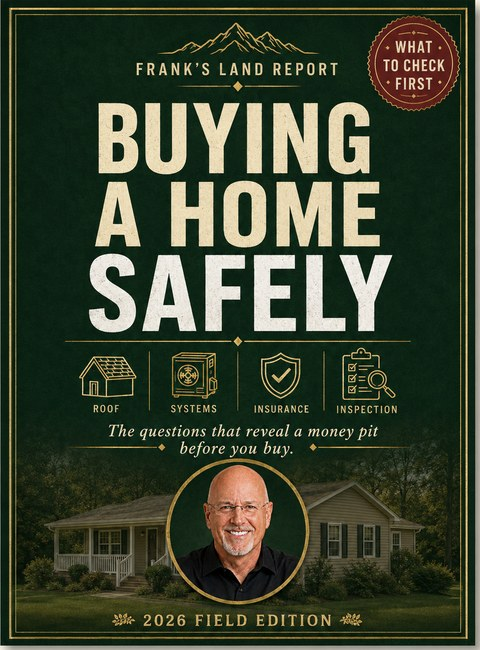
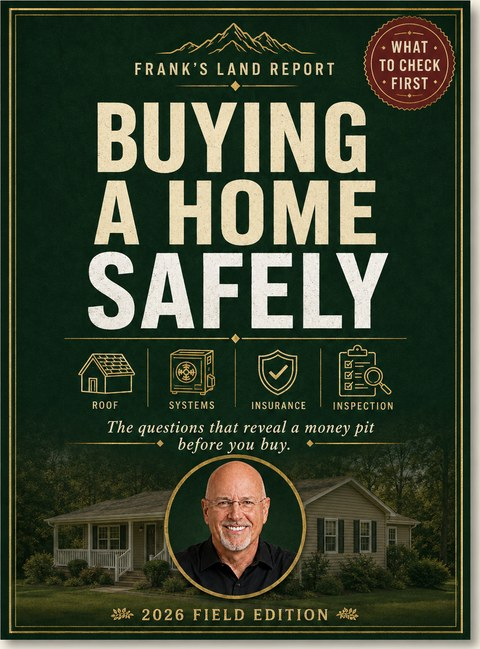
Use the client's flat notebook cover, so all four match

Changed region(s): [[0.0, 0.0, 1.0, 1.0]]

diff --git a/README.md b/README.md
@@ -124,16 +124,23 @@ const PROMO_ENDS_AT = null; // no countdown on the page (client brief 2026-09-02
 
 ## 6. Not wired yet / waiting on client
 
-- [ ] **Notebook cover**: still the older 3D mockup, while the other three are
-      the new flat artwork. Waiting on the notebook in the same flat style.
 - [ ] **Wide "Secret Files" banner**: the client sent one (1693×929) with no
       instruction on where it goes. Not in the repo yet — ask him first.
+- [ ] **Superseded Gumroad products**: the client said he'd unpublish
+      `/l/cheap-house-catches` and `/l/cheap-living-collection`; both still
+      returned 200 on 2026-09-07.
+- [x] **Notebook cover**: received 2026-09-07, so all four covers are now his
+      flat artwork in one style.
 - [x] **Smart-Choices Home Guide**: Gumroad product live, button wired
       (2026-09-05).
-- [x] **New cover art**: received 2026-09-04 as PNGs on a cream mount;
-      trimmed to the cover itself and resized into `assets/covers/`
-      (`safety.jpg`, `smart-choices.jpg`, `bundle.jpg`). The trim script is
-      throwaway — re-crop the same way if he sends replacements.
+- [x] **New cover art**: his covers arrive as PNGs mounted on a cream board
+      with a painted drop shadow. Everything outside the cover has to be
+      trimmed off (the card draws its own shadow), then saved at 2× the CSS
+      width: 480px for `safety.jpg` / `smart-choices.jpg` / `notebook.jpg`,
+      640px for `bundle.jpg`. A plain luminance cut doesn't work because the
+      notebook cover is gold — walk in from each edge instead, dropping lines
+      that are still within ~55 of the mount colour, and skip the trim
+      entirely when the corner pixel is dark (the bundle art is full-bleed).
 - [x] **Gumroad renames**: he made new products rather than renaming, so the
       slugs are clean and the names match the covers.
 - [x] **"Save 50%" claim**: settled 2026-09-02. The client keeps the pricing
